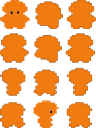
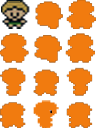
agregando sprites de john, marcelo, nerea y nico

Changed region(s): [[0.0, 0.0, 0.3125, 0.25]]

diff --git a/main.py b/main.py
@@ -127,7 +127,7 @@ sprite_sheet_jennifer = "src/assets/jennifer.png" # Hoja de sprite que correspon
 sprite_sheet_emilio = "src/assets/emilio.png" # Hoja de sprite que corresponde a emilio
 sprite_sheet_camorre = "src/assets/camorre.png" # Hoja de sprite que corresponde a camorre
 # Cocinero
-sprite_sheet_cocinero = "src/assets/cocinero.png" # Hoja de sprite que corresponde a camorre
+sprite_sheet_cocinero = "src/assets/cocinero.png" # Hoja de sprite que corresponde a cocinero
 # Ruta del alert box
 sprite_sheet_wait = "src/assets/wait-box.png"
 wait_box = pygame.image.load(sprite_sheet_wait).convert_alpha()
